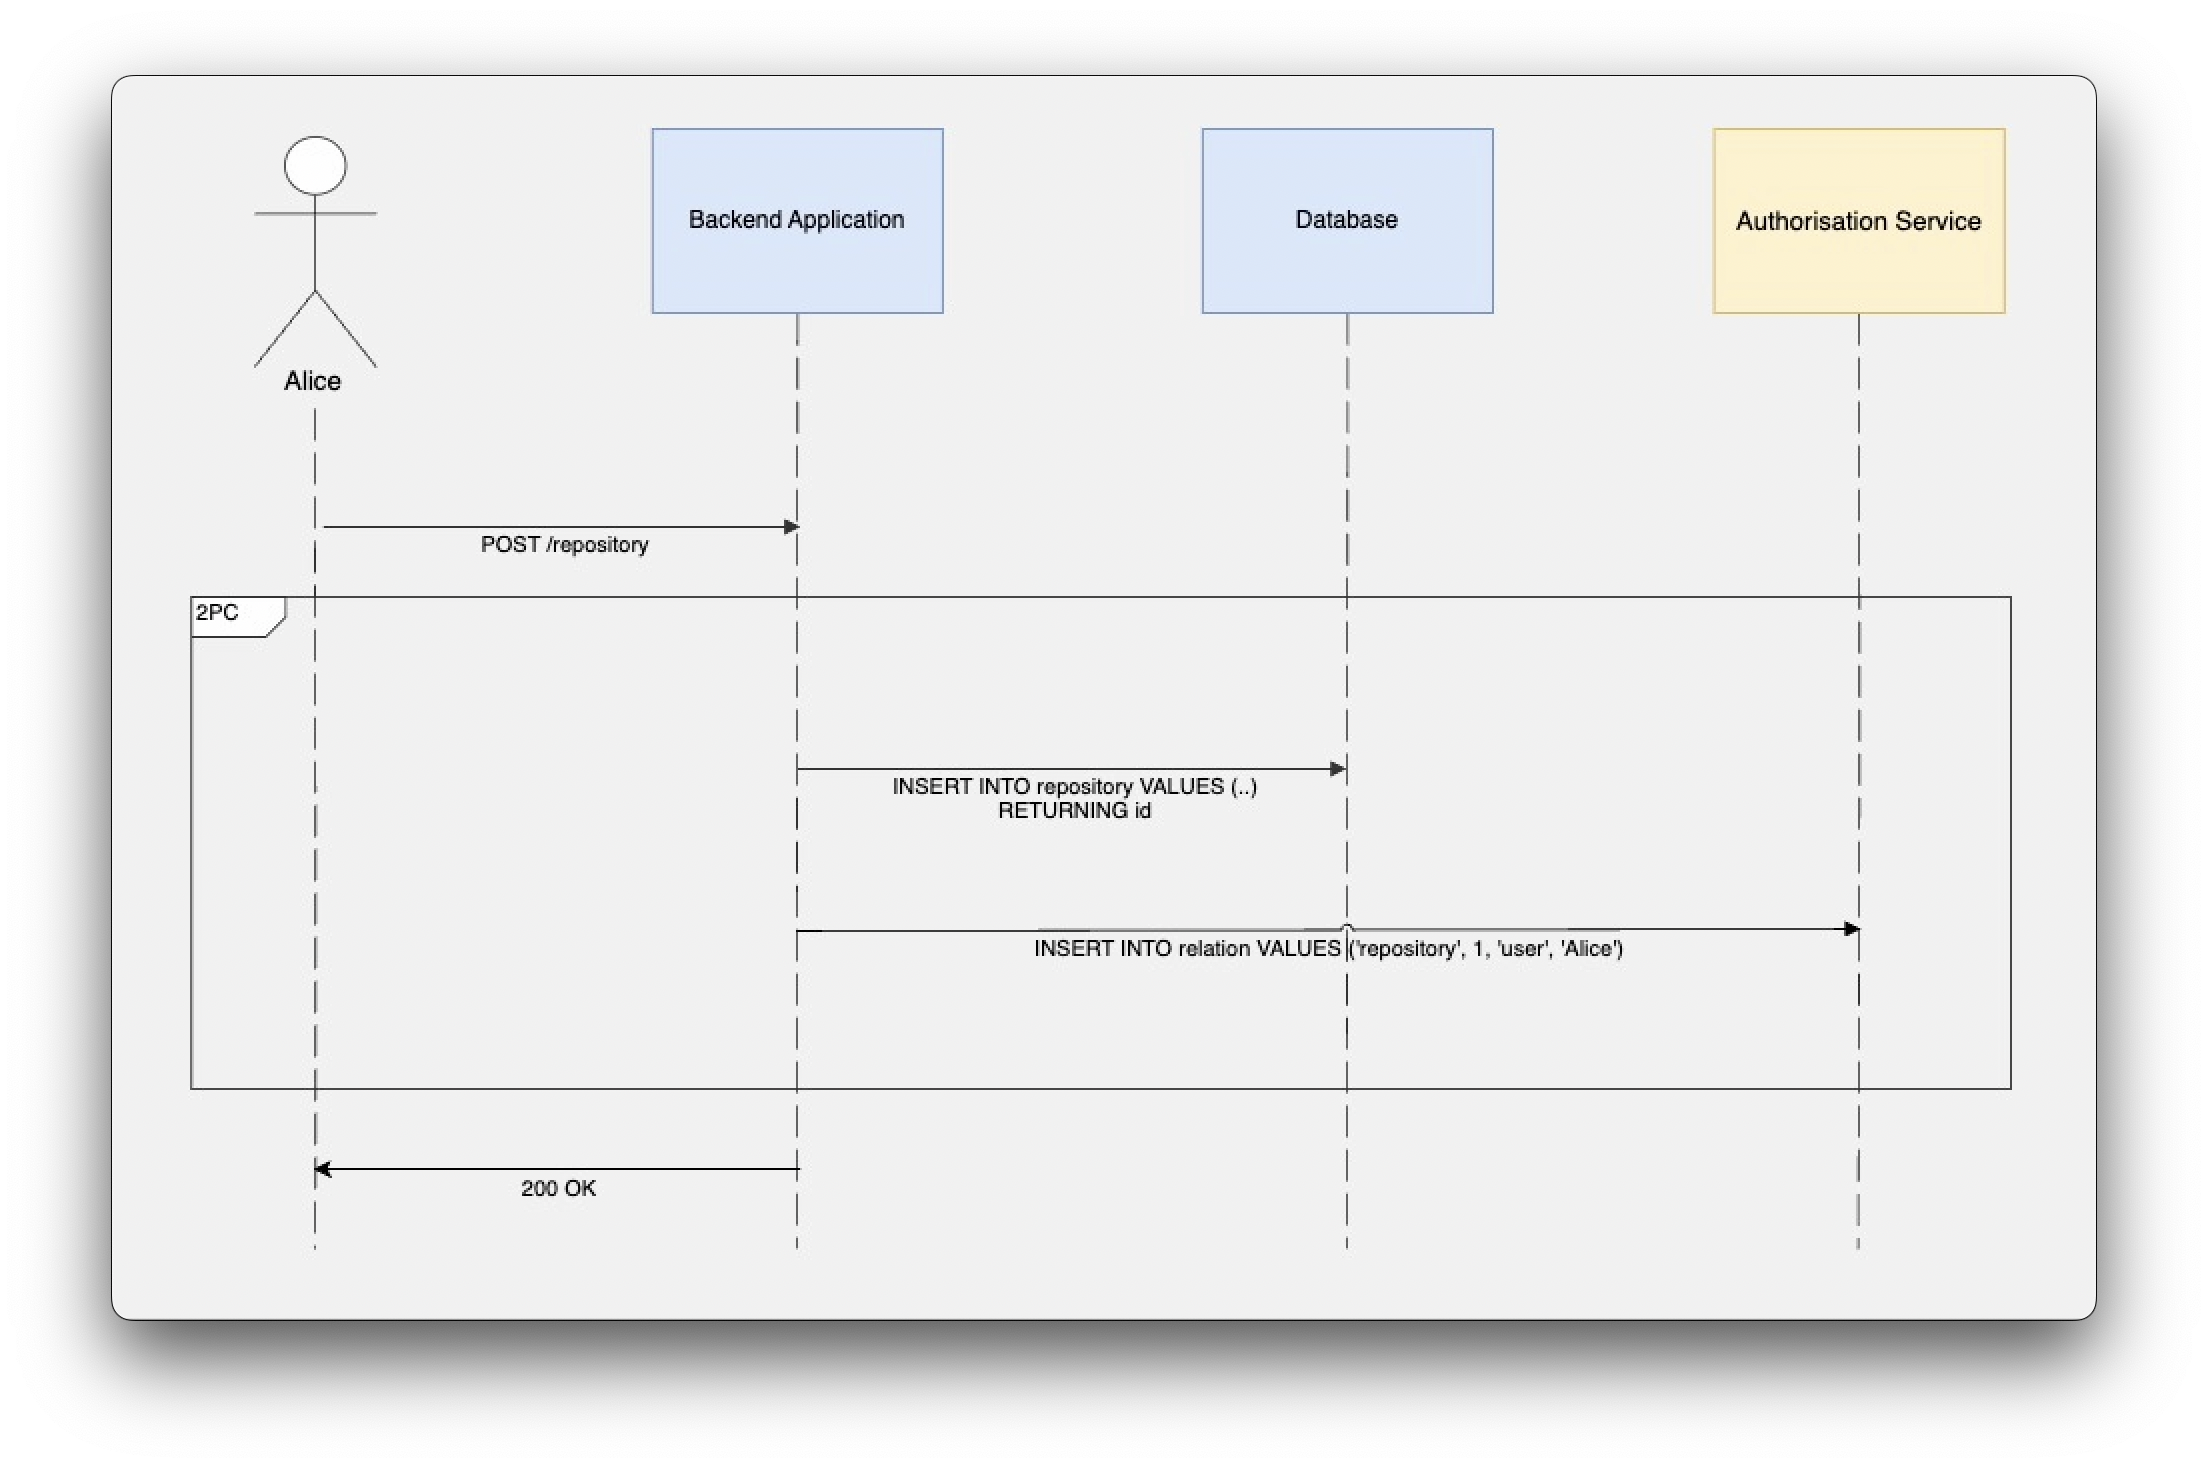
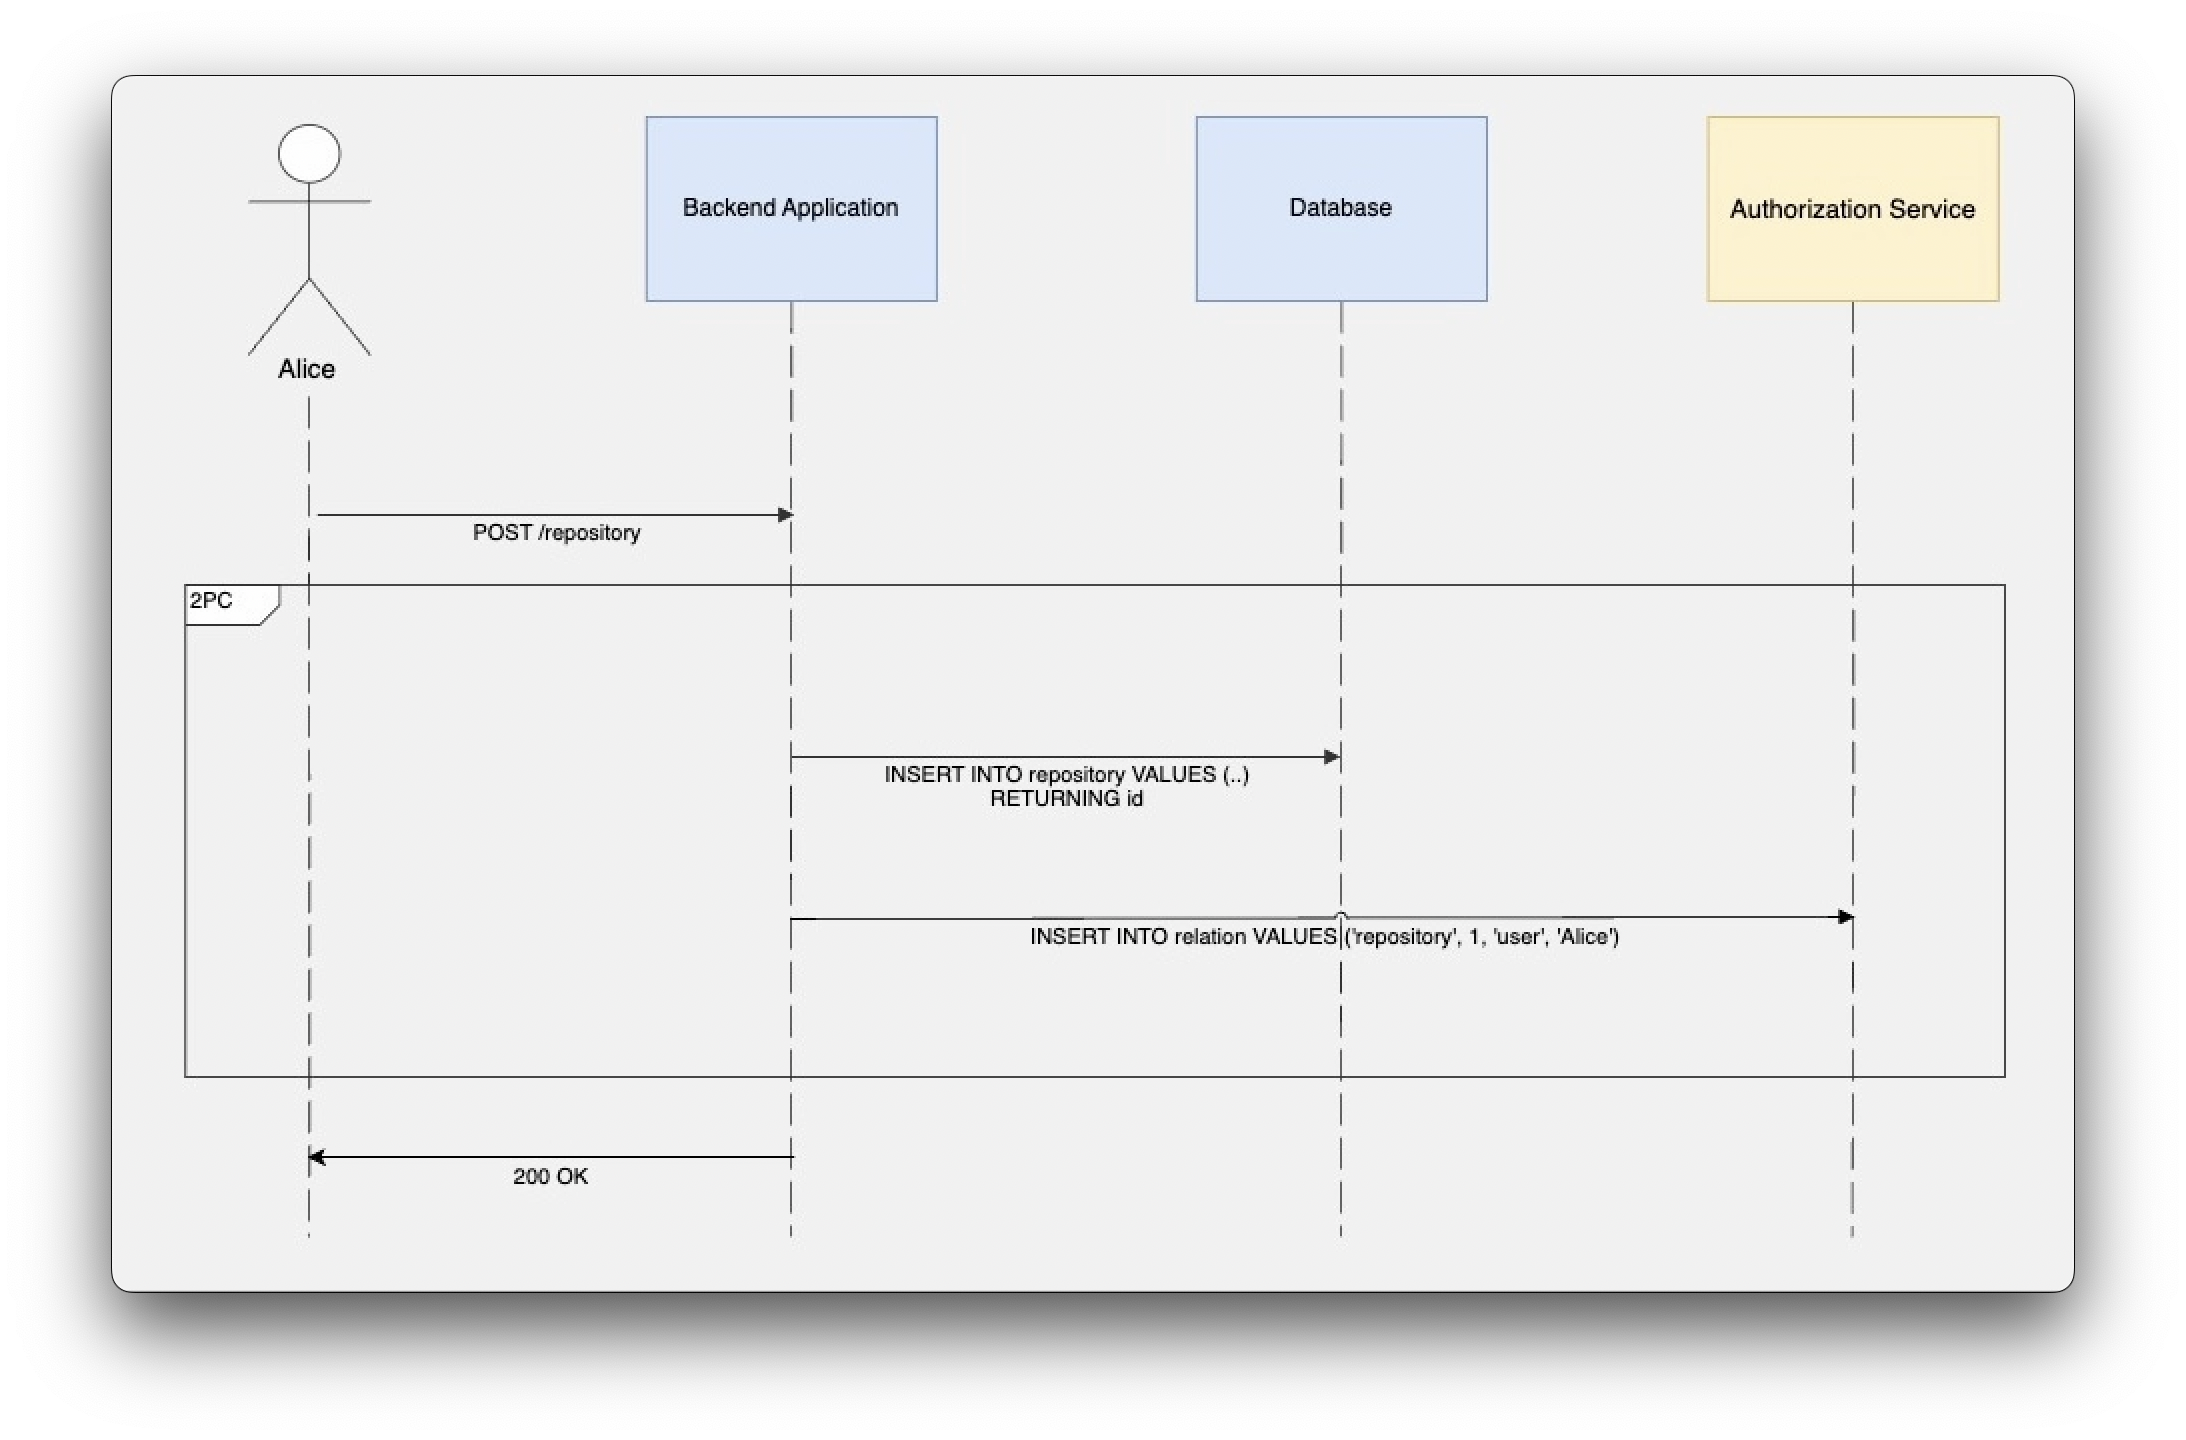
use american english, and some edits

diff --git a/_posts/2024-10-21-authz.md b/_posts/2024-10-21-authz.md
@@ -1,0 +1,70 @@
+---
+layout: post
+title: "Authorization as a Service Concerns"
+date: 2024-10-21 00:00:00 +0000
+categories: auth
+published: true
+---
+
+Authorization is a critical component of application security, and it's becoming increasingly challenging to implement as application use cases evolve. In my work, I was lucky enough to tackle this challenge, where the requirements involved organizational hierarchy, an invitation system, and access restrictions to specific records.
+
+Initially, we built a basic authorization system in PostgreSQL, but as the requirements evolved, the design quickly began to fall apart. We had to account for scenarios like temporarily publicly accessible records and roles applicable only to specific records or entities. So we decided to explore other solutions.
+
+Google published a white paper on their internal authorization system, Zanzibar, which has inspired many open-source implementations. Out of these, we decided to go with [SpiceDB](https://authzed.com/spicedb){:target="_blank"}. The idea of Zanzibar is a distributed authorization system that services can speak to, and let it know when records are created/updated/deleted by who. Later, you query the system to get an authorization decision.
+
+In many cases, authorization checks are performed within the backend application code, separate from the data they are meant to protect. This approach has downsides, creating opportunities for mistakes and inconsistencies between services with varying degrees of security that interact with the same data.
+
+This post highlights some of the flaws in current authorization models. I'll use a hypothetical GitHub-like system as an example to illustrate the risks of relying solely on application-level checks, which can leave serious security concerns.
+
+To illustrate these points, let’s look at a typical CRUD application model and focus on two specific endpoints:
+
+- `POST /repository` This endpoint creates a repository and returns its ID.
+- `GET /repository/{ID}` This endpoint retrieves the file and folder structure of a repository.
+
+Each of these endpoints would require distinct authorization actions.
+
+### Create a repository record
+
+In a create scenario, the backend application creates a record in the domain database and updates the authorization service to associate the record ID with the user ID.
+
+![Create Record](/assets/post240615/create-record.png)
+
+This is the part where the application needs to notify Zanzibar about mutations. It’s up to the application to ensure that the data store supports transactions, with the write to the authorization service being part of the atomic operation. This means that if writing to the authorization service fails, the write to the database should be rolled back. The application must handle atomicity failures correctly.
+
+In this example, we can use a two-phase commit approach. However, an architecture might also implement [Change Data Capture (CDC)](https://en.wikipedia.org/wiki/Change_data_capture){:target="_blank"} to capture write events to the domain database and maintain tuple relations in the authorization service. Alternatively, in a [CQRS](https://martinfowler.com/bliki/CQRS.html){:target="_blank"} architecture, the application could send authorization commands that are then recorded in the authorization service. Regardless of the approach, the core problem this post aims to highlight remains the same.
+
+### Reading a repository record
+
+To read a single repository record, the application first checks permissions by asking the authorization service whether a given user is on the list of users allowed to perform read action on that record.
+
+![Read Single Record](/assets/post240615/read-single-record.png)
+
+Again, it is up to the application to ensure that it understands and conforms to the response from the authorization service. In the first call, Alice wants to read the record with ID 1, and the authorization service permits that access. However, if the application has a bug in processing the authorization decision, it could incorrectly reject the call.
+
+The second example illustrates access denial, where Alice requests record ID 2. In this case, the misinterpretation of the denial is even worse where the application might query the database and return the result, even though the authorization service has denied the access request. This inconsistency highlights the risks associated with relying on application-level authorization checks.
+
+### Is this secure?
+
+On the [AuthZed](https://authzed.com){:target="_blank"} landing page, the creators of SpiceDB, they demonstrate a permission system with a spaceship request authorization decision to land on a planet. In the example, one spaceship is denied landing, and the other is granted access.
+
+![Ornithopter check permission](/assets/post240615/authzed-can-land-authzedia.jpg)
+
+However, if the spaceship has a bug in its code, it might land even when the authorization service denied its permission request, or it might not land when it was granted permission. This inconsistency not only illustrates the risks associated with application-level checks but also highlights that an application could intentionally ignore the authorization decision altogether.
+
+The question of whether this design is secure depends on the domain of the problem we are trying to solve. If we are working with a highly regulated product and keeping the permission checks within the application—where the application can choose whether or not to abide by those checks— I think this approach is undeniably insecure.
+
+### What are we guarding?
+
+We use an authorization service to keep data secure and ensure that only those with the proper permissions can access it. In other words, we are guarding against unauthorized access to records. So why aren’t we placing boundaries directly around our data? If our hypothetical GitHub backend application is performing the authorization checks and then querying the database based on those decisions, the protections are only around the backend application, not the data itself.
+
+To illustrate, if we think of the application as the spaceship and the data as the planet, it becomes clear that we need robust protections for the planet. If the spaceship decides to ignore the authorization decision, there should still be a security layer in place to prevent unauthorized calls and protect the planet.
+
+If we were to create another backend application that has access to the same database but lacks authorization checks or has faulty checks, that means the data is left unprotected.
+
+Some databases support Row-Level Security (RLS), which is a more robust method for protecting against unauthorized access. However, these RLS implementations often lack the advanced relational capabilities that Zanzibar-inspired products are solving.
+
+### Conclusion
+
+In summary, authorization is a complex and essential aspect of application security. Various models exist, including role-based, attribute-based, and relation-based access control. A significant challenge across these approaches is the difficulty of implementing robust authorization mechanisms directly around the data we're trying to protect. While application-level checks provide some security, they can introduce vulnerabilities if not handled carefully.
+
+I am very passionate about authorization and identity and access management. If you have questions or would like to discuss this further, please feel free to reach out.
